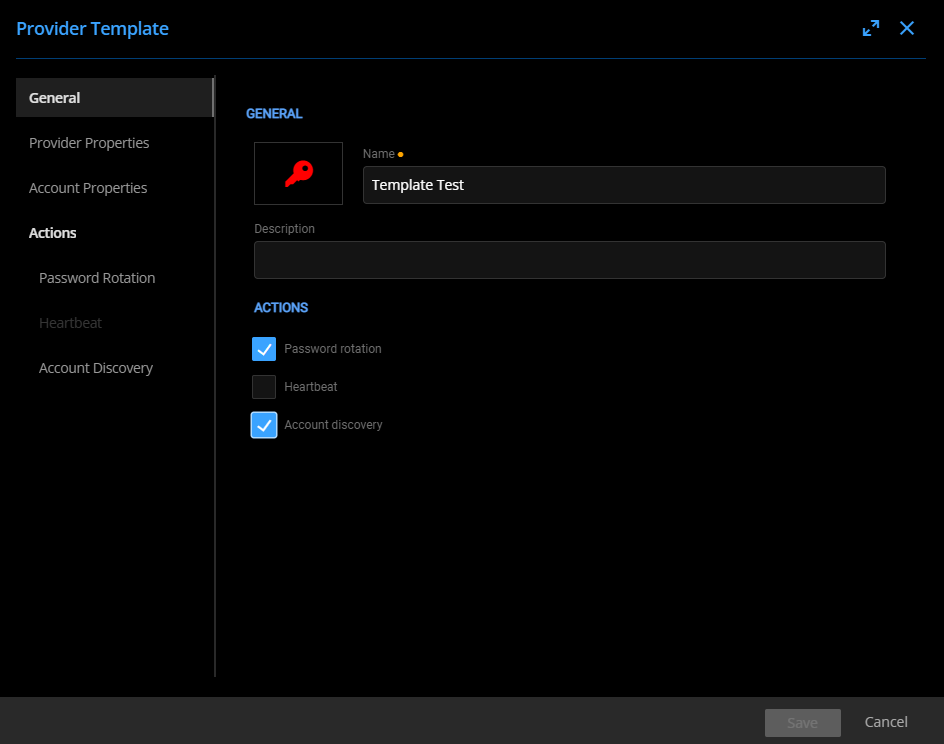
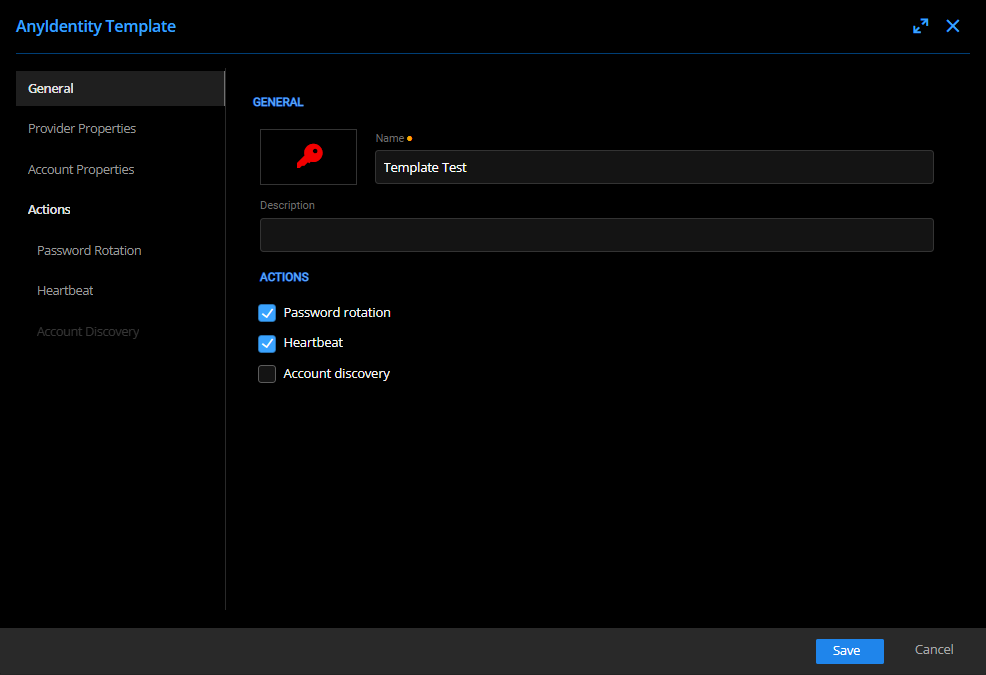
Rename to AnyIdentity

diff --git a/How-To-Import.md b/How-To-Import.md
@@ -1,7 +1,7 @@
-Simply go to Provider template page.
-_Administration/PrivilegedAccess/Provider/ProviderTemplate_
+Simply go to AnyIdentity Templates page.
+_Administration/PrivilegedAccess/Provider/AnyIdentityTemplates_
  - Click the import button in the right corner
  - Select the .json file
  - Save the provider
 
-You can now create providers and accounts using your new type in the custom section
+You can now create providers and accounts using your new type in the AnyIdentity section

diff --git a/ReadMe.md b/ReadMe.md
@@ -1,6 +1,6 @@
-## PAM - Custom Providers
+## PAM - AnyIdentity Providers
 
-You will find on this repo, custom providers made by the Devolutions team and instructions on how to use them.
+You will find on this repo, anyIdentity providers made by the Devolutions team and instructions on how to use them.
 
 For any other questions, please write to us on the forum
 

diff --git a/Create-New-Template.md b/Create-New-Template.md
@@ -1,6 +1,6 @@
 
-The Template Providers page can be found in the Providers page.
-*Administration/PrivilegedAccess/Provider/ProviderTemplate*
+The AnyIdentity Templates page can be found in the Providers page.
+*Administration/PrivilegedAccess/Provider/AnyIdentityTemplates*
 
 ![alt text](./Images/6b59fb3e-9b89-4b76-887b-fe769598462c.png)
 
